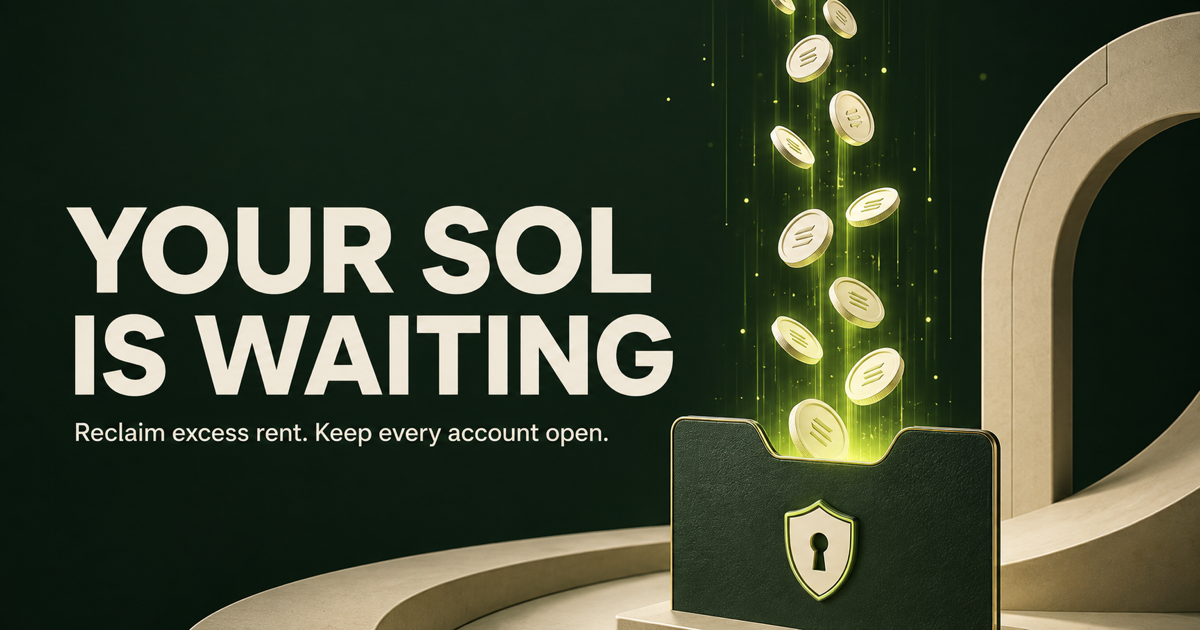
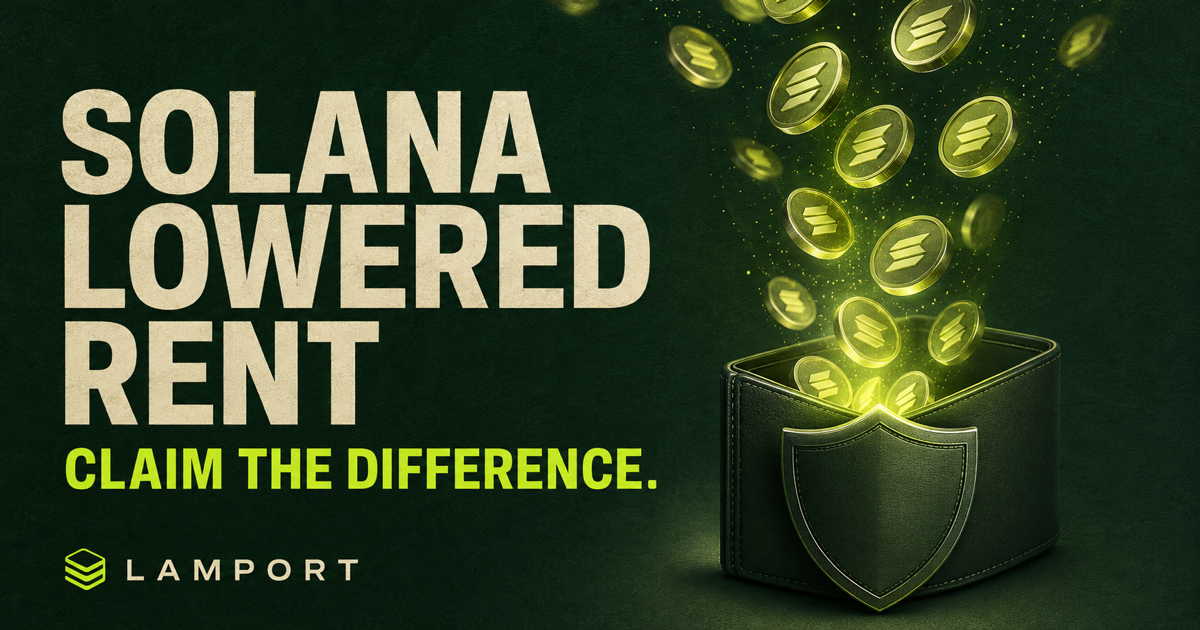
Lead with reduced rent and add community coin concept

diff --git a/app/globals.css b/app/globals.css
@@ -15,6 +15,7 @@ button, a { font: inherit; } button { cursor: pointer; }
 .eyebrow { display: inline-flex; align-items: center; gap: 9px; padding: 9px 14px; border: 1px solid var(--line); border-radius: 999px; background: rgba(255,255,255,.42); font-size: 11px; font-weight: 800; letter-spacing: .11em; text-transform: uppercase; }
 .eyebrow span { width: 7px; height: 7px; background: var(--green); border-radius: 50%; box-shadow: 0 0 0 4px rgba(7,93,68,.1); }
 .hero h1 { max-width: 950px; margin: 34px auto 20px; font-family: Georgia, 'Times New Roman', serif; font-size: clamp(58px, 7.4vw, 112px); font-weight: 500; line-height: .88; letter-spacing: -.062em; }
+.hero h1 em { color: var(--green); font-weight: 500; }
 .hero-copy { max-width: 600px; margin: 0 auto; color: var(--muted); font-size: 17px; line-height: 1.55; }
 .hero-actions { display: flex; justify-content: center; gap: 12px; margin-top: 32px; }
 .primary-action, .demo-action { min-height: 52px; border-radius: 999px; padding: 0 22px; font-weight: 800; font-size: 14px; }.primary-action { border: 0; background: var(--green); color: #fff; box-shadow: 0 8px 25px rgba(7,93,68,.18); }
@@ -37,7 +38,7 @@ button, a { font: inherit; } button { cursor: pointer; }
 .section-kicker { margin: 0 0 23px; color: #6b7772; font-size: 9px; font-weight: 900; letter-spacing: .18em; }
 .section-kicker.light { color: #8aa299; }
 .results-section { display: grid; grid-template-columns: minmax(260px, .8fr) minmax(420px, 1.2fr); align-items: center; gap: clamp(60px, 10vw, 160px); padding: 138px clamp(24px, 8vw, 130px); background: #f6f5ee; }
-.section-intro h2, .how-heading h2, .developer-copy h2, .final-cta h2 { margin: 0; font-family: Georgia, 'Times New Roman', serif; font-size: clamp(46px, 5vw, 76px); font-weight: 500; line-height: .96; letter-spacing: -.055em; }
+.section-intro h2, .how-heading h2, .developer-copy h2, .final-cta h2, .update-copy h2, .community-copy h2 { margin: 0; font-family: Georgia, 'Times New Roman', serif; font-size: clamp(46px, 5vw, 76px); font-weight: 500; line-height: .96; letter-spacing: -.055em; }
 h2 em { color: var(--green); font-weight: 500; }
 .section-intro > p:last-child { max-width: 420px; margin: 28px 0 0; color: var(--muted); font-size: 15px; line-height: 1.7; }
 .account-panel { overflow: hidden; border: 1px solid var(--line); border-radius: 16px; background: #fff; box-shadow: 0 20px 50px rgba(8,22,18,.06); }
@@ -48,12 +49,40 @@ h2 em { color: var(--green); font-weight: 500; }
 .account-row > strong { color: var(--green); font-family: Georgia, serif; font-size: 18px; font-weight: 500; }
 .panel-total { display: flex; justify-content: space-between; align-items: center; padding: 21px; background: #09251d; color: #fff; }.panel-total span { color: #aebdb8; font-size: 11px; }.panel-total b { color: var(--acid); font-family: Georgia, serif; font-size: 22px; font-weight: 500; }
 
+.update-section { position: relative; display: grid; grid-template-columns: .85fr 1.15fr; align-items: center; gap: clamp(70px, 11vw, 180px); overflow: hidden; padding: 138px clamp(24px, 8vw, 130px); background: var(--acid); }
+.update-number { position: absolute; right: -18px; bottom: -175px; color: rgba(8,22,18,.075); font-family: Georgia, serif; font-size: 520px; line-height: 1; }
+.update-copy, .update-facts { position: relative; z-index: 1; }
+.update-copy h2 em { color: var(--ink); }
+.update-copy > p:last-child { max-width: 510px; margin: 28px 0 0; color: #35402c; font-size: 15px; line-height: 1.7; }
+.update-facts article { display: grid; grid-template-columns: 45px 1fr; padding: 22px 0; border-top: 1px solid rgba(8,22,18,.2); }
+.update-facts article span { grid-row: 1 / 3; color: #566342; font-size: 10px; font-weight: 900; }
+.update-facts article b { font-family: Georgia, serif; font-size: 22px; font-weight: 500; }
+.update-facts article p { margin: 6px 0 0; color: #45503a; font-size: 12px; line-height: 1.6; }
+.update-facts > a { display: inline-flex; gap: 12px; margin-top: 18px; padding-bottom: 5px; border-bottom: 1px solid rgba(8,22,18,.45); color: var(--ink); font-size: 12px; font-weight: 900; text-decoration: none; }
+
 .how-section { display: grid; grid-template-columns: .8fr 1.2fr; gap: clamp(70px, 11vw, 180px); padding: 142px clamp(24px, 8vw, 130px); background: #dedfd3; border-top: 1px solid var(--line); }
 .steps article { position: relative; display: grid; grid-template-columns: 46px 66px 1fr; grid-template-rows: auto auto; column-gap: 22px; padding: 28px 0; border-top: 1px solid rgba(8,22,18,.18); }
 .steps article:last-child { border-bottom: 1px solid rgba(8,22,18,.18); }
 .steps article > span { grid-row: 1 / 3; padding-top: 8px; color: #69756f; font-size: 10px; font-weight: 900; }
 .step-icon { grid-row: 1 / 3; display: grid; width: 58px; height: 58px; place-items: center; border-radius: 50%; background: #f1f1e8; color: var(--green); font-size: 26px; }.step-icon.acid { background: var(--acid); color: var(--ink); }
 .steps h3 { margin: 2px 0 8px; font-family: Georgia, serif; font-size: 23px; font-weight: 500; }.steps p { max-width: 470px; margin: 0; color: var(--muted); font-size: 13px; line-height: 1.6; }
+
+.community-section { display: grid; grid-template-columns: minmax(360px, .9fr) minmax(430px, 1.1fr); align-items: center; gap: clamp(60px, 11vw, 170px); padding: 140px clamp(24px, 8vw, 130px); background: #102e25; color: #fff; }
+.community-coin { position: relative; display: grid; min-height: 500px; place-items: center; }
+.coin-halo { position: absolute; width: min(470px, 100%); aspect-ratio: 1; border: 1px solid rgba(201,255,61,.18); border-radius: 50%; box-shadow: inset 0 0 80px rgba(201,255,61,.07), 0 0 0 55px rgba(201,255,61,.025), 0 0 0 110px rgba(201,255,61,.016); }
+.big-coin { position: relative; display: grid; width: 270px; height: 270px; place-items: center; border: 4px solid #071a14; border-radius: 50%; background: var(--acid); color: var(--ink); box-shadow: 0 18px 0 #071a14, 0 35px 70px rgba(0,0,0,.35); transform: rotate(-7deg); }
+.big-coin::before, .big-coin::after { content: ''; position: absolute; inset: 17px; border: 1px solid rgba(8,22,18,.35); border-radius: 50%; }.big-coin::after { inset: 28px; border-style: dashed; }
+.big-coin > span { position: absolute; top: 41px; font-size: 33px; }.big-coin > b { font-family: Georgia, serif; font-size: 110px; font-weight: 500; line-height: 1; }.big-coin > small { position: absolute; bottom: 48px; font-size: 11px; font-weight: 900; letter-spacing: .13em; }
+.coin-tag { position: absolute; bottom: 38px; padding: 9px 12px; border: 1px solid rgba(255,255,255,.16); border-radius: 999px; background: #071a14; color: #93a8a0; font-size: 9px; font-weight: 900; letter-spacing: .13em; }
+.community-copy h2 { font-size: clamp(48px, 4.7vw, 72px); }.community-copy h2 em { color: var(--acid); }
+.community-lead { max-width: 580px; margin: 28px 0 30px; color: #a9bbb4; font-size: 15px; line-height: 1.7; }
+.coin-principles { display: grid; grid-template-columns: 1fr 1fr; border-top: 1px solid rgba(255,255,255,.13); border-left: 1px solid rgba(255,255,255,.13); }
+.coin-principles div { display: flex; flex-direction: column; gap: 7px; min-height: 103px; padding: 19px; border-right: 1px solid rgba(255,255,255,.13); border-bottom: 1px solid rgba(255,255,255,.13); }
+.coin-principles b { color: #fff; font-family: Georgia, serif; font-size: 17px; font-weight: 500; }.coin-principles span { color: #8fa39b; font-size: 11px; line-height: 1.55; }
+.coin-actions { display: flex; align-items: center; gap: 20px; margin-top: 27px; }
+.coin-primary { display: inline-flex; align-items: center; gap: 12px; padding: 14px 18px; border-radius: 999px; background: var(--acid); color: var(--ink); font-size: 12px; font-weight: 900; text-decoration: none; }
+.launch-status { color: #90a49c; font-size: 9px; font-weight: 900; letter-spacing: .1em; }.launch-status i { display: inline-block; width: 7px; height: 7px; margin-right: 7px; border-radius: 50%; background: #ffbe5c; }
+.coin-risk { max-width: 600px; margin: 18px 0 0; color: #738a81; font-size: 9px; line-height: 1.55; }
 
 .developer-section { display: grid; grid-template-columns: 1fr 1fr; align-items: center; gap: clamp(50px, 10vw, 150px); padding: 132px clamp(24px, 8vw, 130px); background: #09251d; color: #fff; }
 .developer-copy h2 { font-size: clamp(45px, 4.3vw, 68px); }.developer-copy > p:nth-of-type(2) { max-width: 530px; margin: 28px 0; color: #9db0a9; font-size: 14px; line-height: 1.7; }
@@ -76,20 +105,22 @@ button:focus-visible, a:focus-visible { outline: 3px solid #8aca00; outline-offs
 button:disabled { cursor: wait; opacity: .8; }
 
 @media (max-width: 900px) {
-  .results-section, .how-section, .developer-section { grid-template-columns: 1fr; gap: 60px; }
-  .results-section, .how-section, .developer-section { padding: 100px clamp(24px, 7vw, 70px); }
+  .results-section, .how-section, .developer-section, .update-section, .community-section { grid-template-columns: 1fr; gap: 60px; }
+  .results-section, .how-section, .developer-section, .update-section, .community-section { padding: 100px clamp(24px, 7vw, 70px); }
   .how-heading br { display: none; }
+  .community-coin { min-height: 410px; }
   footer { grid-template-columns: 1fr auto; } footer > p { display: none; }
 }
 @media (max-width: 700px) {
   .nav { grid-template-columns: 1fr auto; padding: 0 20px; }.nav-links { display: none; }.hero { min-height: 750px; padding-top: 66px; }.hero h1 { font-size: clamp(53px, 16vw, 72px); }.hero-copy { font-size: 15px; }.trust-line { line-height: 1.6; }.card-head strong { font-size: 38px; }.status-pill { display: none; }.proof-items { flex-direction: column; gap: 16px; }
   .hero-actions { flex-direction: column; align-items: stretch; max-width: 330px; margin-left: auto; margin-right: auto; }
   .orbit-one, .orbit-two { display: none; }
-  .results-section, .how-section, .developer-section { padding: 80px 22px; }
-  .section-intro h2, .how-heading h2, .developer-copy h2 { font-size: 47px; }
+  .results-section, .how-section, .developer-section, .update-section, .community-section { padding: 80px 22px; }
+  .section-intro h2, .how-heading h2, .developer-copy h2, .update-copy h2, .community-copy h2 { font-size: 47px; }
   .account-row { grid-template-columns: 38px 1fr auto; padding: 16px 14px; }.account-row > strong { font-size: 14px; }
   .steps article { grid-template-columns: 30px 55px 1fr; gap: 10px; }.step-icon { width: 48px; height: 48px; }
   .code-card { padding: 38px 15px 26px; overflow-x: auto; }
+  .community-coin { min-height: 360px; }.big-coin { width: 220px; height: 220px; }.big-coin > b { font-size: 88px; }.coin-halo { width: 330px; }.coin-tag { bottom: 10px; }.coin-principles { grid-template-columns: 1fr; }.coin-actions { align-items: flex-start; flex-direction: column; }
   .final-cta { padding: 110px 22px; }
   footer { min-height: 150px; grid-template-columns: 1fr; gap: 20px; padding-top: 28px; padding-bottom: 28px; } footer > div { justify-content: flex-start; flex-wrap: wrap; }
 }

diff --git a/app/page.tsx b/app/page.tsx
@@ -90,7 +90,7 @@ export default function Home() {
 
       <nav className="nav">
         <a className="brand" href="#top" aria-label="Lamport home"><span className="brand-mark">L</span><span>LAMPORT</span></a>
-        <div className="nav-links"><a href="#how">How it works</a><a href="#developers">Developers</a><a href="#safety">Safety</a></div>
+        <div className="nav-links"><a href="#how">How it works</a><a href="#community">Community coin</a><a href="#developers">Developers</a></div>
         <button className="wallet-button" type="button" onClick={connectWallet} disabled={busy}>
           {wallet ? shortAddress(wallet) : busy ? 'Checking wallet…' : 'Connect wallet'} <span aria-hidden="true">↗</span>
         </button>
@@ -98,9 +98,9 @@ export default function Home() {
 
       <section className="hero" id="top">
         <div className="hero-orbit orbit-one">◎</div><div className="hero-orbit orbit-two">◎</div>
-        <div className="eyebrow"><span /> Solana rent just got cheaper</div>
-        <h1>Your SOL is<br />waiting to come home.</h1>
-        <p className="hero-copy">Scan your wallet for excess rent sitting in token accounts. Reclaim it in one transaction—without closing anything.</p>
+        <div className="eyebrow"><span /> The reduced-rent era is here</div>
+        <h1>Solana lowered rent.<br /><em>Claim the difference.</em></h1>
+        <p className="hero-copy">Accounts funded under the old rent floor may now hold excess lamports. Scan and recover that SOL without closing the accounts or touching token balances.</p>
         <div className="hero-actions">
           <button className="primary-action" type="button" onClick={connectWallet} disabled={busy}><span className="sol-dot">◎</span> {busy ? 'Scanning…' : 'Scan my wallet'}</button>
           <button className="demo-action" type="button" onClick={loadDemo}>Try the demo <span>→</span></button>
@@ -129,7 +129,22 @@ export default function Home() {
 
       <section className="proof-strip" id="safety">
         <p>BUILT FOR THE NEW RENT ERA</p>
-        <div className="proof-items"><span><b>↓</b> Rent floor reduced</span><span><b>◇</b> Token accounts stay open</span><span><b>✓</b> Balances stay untouched</span></div>
+        <div className="proof-items"><span><b>↓</b> Rent floor is falling</span><span><b>◇</b> Token accounts stay open</span><span><b>✓</b> Balances stay untouched</span></div>
+      </section>
+
+      <section className="update-section">
+        <div className="update-number" aria-hidden="true">↓</div>
+        <div className="update-copy">
+          <p className="section-kicker">THE UPDATE CREATED THE OPPORTUNITY</p>
+          <h2>Old deposits.<br /><em>New rent floor.</em></h2>
+          <p>Solana is rolling out lower account rent. Accounts that were funded to an older, higher rent-exempt minimum can end up holding more lamports than they need.</p>
+        </div>
+        <div className="update-facts">
+          <article><span>01</span><b>The network lowers rent</b><p>The required minimum changes as the reduced-rent rollout advances.</p></article>
+          <article><span>02</span><b>Your account keeps the old deposit</b><p>Nothing automatically sweeps the surplus back to your wallet.</p></article>
+          <article><span>03</span><b>Lamport returns the difference</b><p>Withdraw only the excess and leave the account live and rent-exempt.</p></article>
+          <a href="https://solana.com/upgrades/reduced-rent" target="_blank" rel="noreferrer">Follow Solana’s official rollout <span>↗</span></a>
+        </div>
       </section>
 
       <section className="results-section" aria-label="Example scan results">
@@ -157,6 +172,30 @@ export default function Home() {
           <article><span>01</span><div className="step-icon">⌁</div><h3>Connect & scan</h3><p>We read public account data and compare each balance with today’s rent-exempt minimum.</p></article>
           <article><span>02</span><div className="step-icon">◫</div><h3>Review everything</h3><p>See the exact accounts, estimated network fee, and destination before you approve.</p></article>
           <article><span>03</span><div className="step-icon acid">↓</div><h3>Reclaim</h3><p>Excess lamports return to your wallet. Accounts and token balances stay exactly where they are.</p></article>
+        </div>
+      </section>
+
+      <section className="community-section" id="community">
+        <div className="community-coin" aria-hidden="true">
+          <div className="coin-halo" />
+          <div className="big-coin"><span>◎</span><b>L</b><small>$LAMPORT</small></div>
+          <span className="coin-tag">CONCEPT • NOT LAUNCHED</span>
+        </div>
+        <div className="community-copy">
+          <p className="section-kicker light">OPTIONAL COMMUNITY LAYER</p>
+          <h2>A coin for the movement.<br /><em>Never a tollbooth.</em></h2>
+          <p className="community-lead">$LAMPORT can turn every successful reclaim into a shareable community moment while the recovery tool remains free and useful on its own.</p>
+          <div className="coin-principles">
+            <div><b>Utility first</b><span>No token required to scan or reclaim.</span></div>
+            <div><b>Fair launch</b><span>If launched, everyone enters through the same pump.fun market.</span></div>
+            <div><b>One official address</b><span>The mint will appear here first—never in replies or DMs.</span></div>
+            <div><b>No promises</b><span>A community coin is speculative, not a claim on product revenue.</span></div>
+          </div>
+          <div className="coin-actions">
+            <a className="coin-primary" href="https://pump.fun/create" target="_blank" rel="noreferrer">Open pump.fun launch page <span>↗</span></a>
+            <span className="launch-status"><i /> OFFICIAL COIN NOT LIVE</span>
+          </div>
+          <p className="coin-risk">Pump.fun coins can move quickly and lose value. The reclaim product and its security must never depend on the token price.</p>
         </div>
       </section>
 
@@ -192,7 +231,7 @@ export default function Home() {
       <footer>
         <a className="brand footer-brand" href="#top"><span className="brand-mark">L</span><span>LAMPORT</span></a>
         <p>Built for Solana’s reduced-rent era.</p>
-        <div><a href="https://solana.com/upgrades/reduced-rent" target="_blank" rel="noreferrer">Rent rollout</a><a href="#developers">Developers</a><a href="#safety">Safety</a></div>
+        <div><a href="https://solana.com/upgrades/reduced-rent" target="_blank" rel="noreferrer">Rent rollout</a><a href="#community">Community coin</a><a href="#safety">Safety</a></div>
       </footer>
     </main>
   );

diff --git a/app/layout.tsx b/app/layout.tsx
@@ -13,18 +13,18 @@ const geistMono = Geist_Mono({
 });
 
 export const metadata: Metadata = {
-  metadataBase: new URL('https://lamport-reclaim-sol.open-hinny-7742.chatgpt.site'),
-  title: 'Lamport — Reclaim excess Solana rent',
-  description: 'Scan token accounts and reclaim excess rent without closing them.',
+  metadataBase: new URL('https://lamport-reclaim-sol.hunrtech.chatgpt.site'),
+  title: 'Lamport — Solana lowered rent. Claim the difference.',
+  description: 'The rent floor changed. Scan token accounts and recover excess SOL without closing them.',
   openGraph: {
-    title: 'Your SOL is waiting',
-    description: 'Reclaim excess rent. Keep every account open.',
+    title: 'Solana lowered rent. Claim the difference.',
+    description: 'Scan token accounts and recover excess SOL without closing them.',
     images: [{ url: '/og.png', width: 1200, height: 630, alt: 'Lamport — reclaim excess Solana rent' }],
   },
   twitter: {
     card: 'summary_large_image',
-    title: 'Your SOL is waiting',
-    description: 'Reclaim excess rent. Keep every account open.',
+    title: 'Solana lowered rent. Claim the difference.',
+    description: 'Scan token accounts and recover excess SOL without closing them.',
     images: ['/og.png'],
   },
 };
